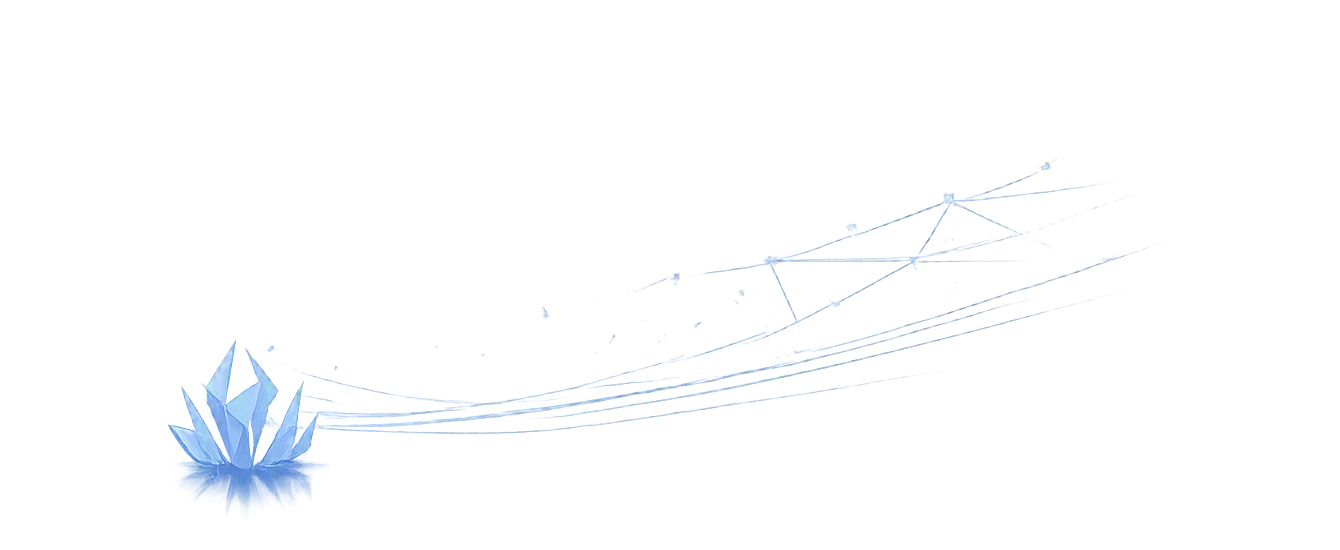
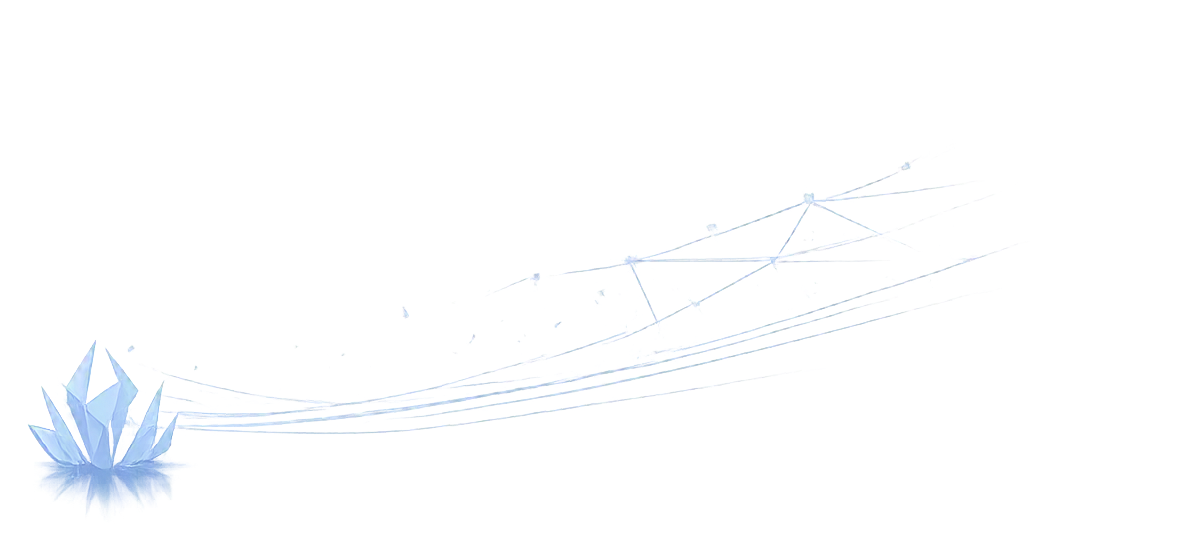
fix: bg position

diff --git a/assets/styles/main.css b/assets/styles/main.css
@@ -1,7 +1,6 @@
 main {
     width: 100%;
     height: 100%;
-    padding: 2px;
     overflow: hidden;
 }
 
@@ -10,6 +9,7 @@ main {
     height: fit-content;
     display: flex;
     flex-direction: column;
+    padding: 0 var(--size-medium);
     gap: var(--size-large);
 }
 
@@ -20,12 +20,16 @@ main {
     flex-direction: column;
     padding: var(--size-large);
     gap: var(--size-large);
-    background-color: var(--section-bg);
     border-radius: 16px;
     overflow: hidden;
 }
 
-.section::before {
+.gradient {
+    background-color: var(--section-bg);
+
+}
+
+.gradient::before {
     content: '';
     position: absolute;
     inset: 0;
@@ -48,7 +52,7 @@ main {
     opacity: 0.8;
 }
 
-section::after {
+.gradient::after {
     content: '';
     position: absolute;
     inset: 0;
@@ -62,7 +66,7 @@ section::after {
     z-index: 0;
 }
 
-.section:hover::after {
+.gradient:hover::after {
     opacity: 0;
 }
 

diff --git a/index.html b/index.html
@@ -29,8 +29,7 @@
         <main>
             <div class="main_content">
                 <section id="self-introduction"
-                    class="section main_self-introduction">
-                    <span class="moonshine-light"></span>
+                    class="section gradient main_self-introduction">
                     <h2>
                         Self introduction
                     </h2>
@@ -40,6 +39,7 @@
                     </p>
                 </section>
                 <section id="contacts" class="section main_contacts">
+                    <span class="moonshine-light"></span>
                     <h2>Contacts</h2>
                     <ul class="contacts_list">
                         <li>Email: maryang@mail.ru</li>

diff --git a/style.css b/style.css
@@ -34,7 +34,8 @@ body {
     gap: var(--size-large);
     background-image: url('assets/img/bg.png');
     background-size: contain;
-    background-position: bottom left;
+    background-position-y: bottom;
+    background-position-x: 0px;
     background-repeat: no-repeat;
     overflow-x: hidden;
 }
